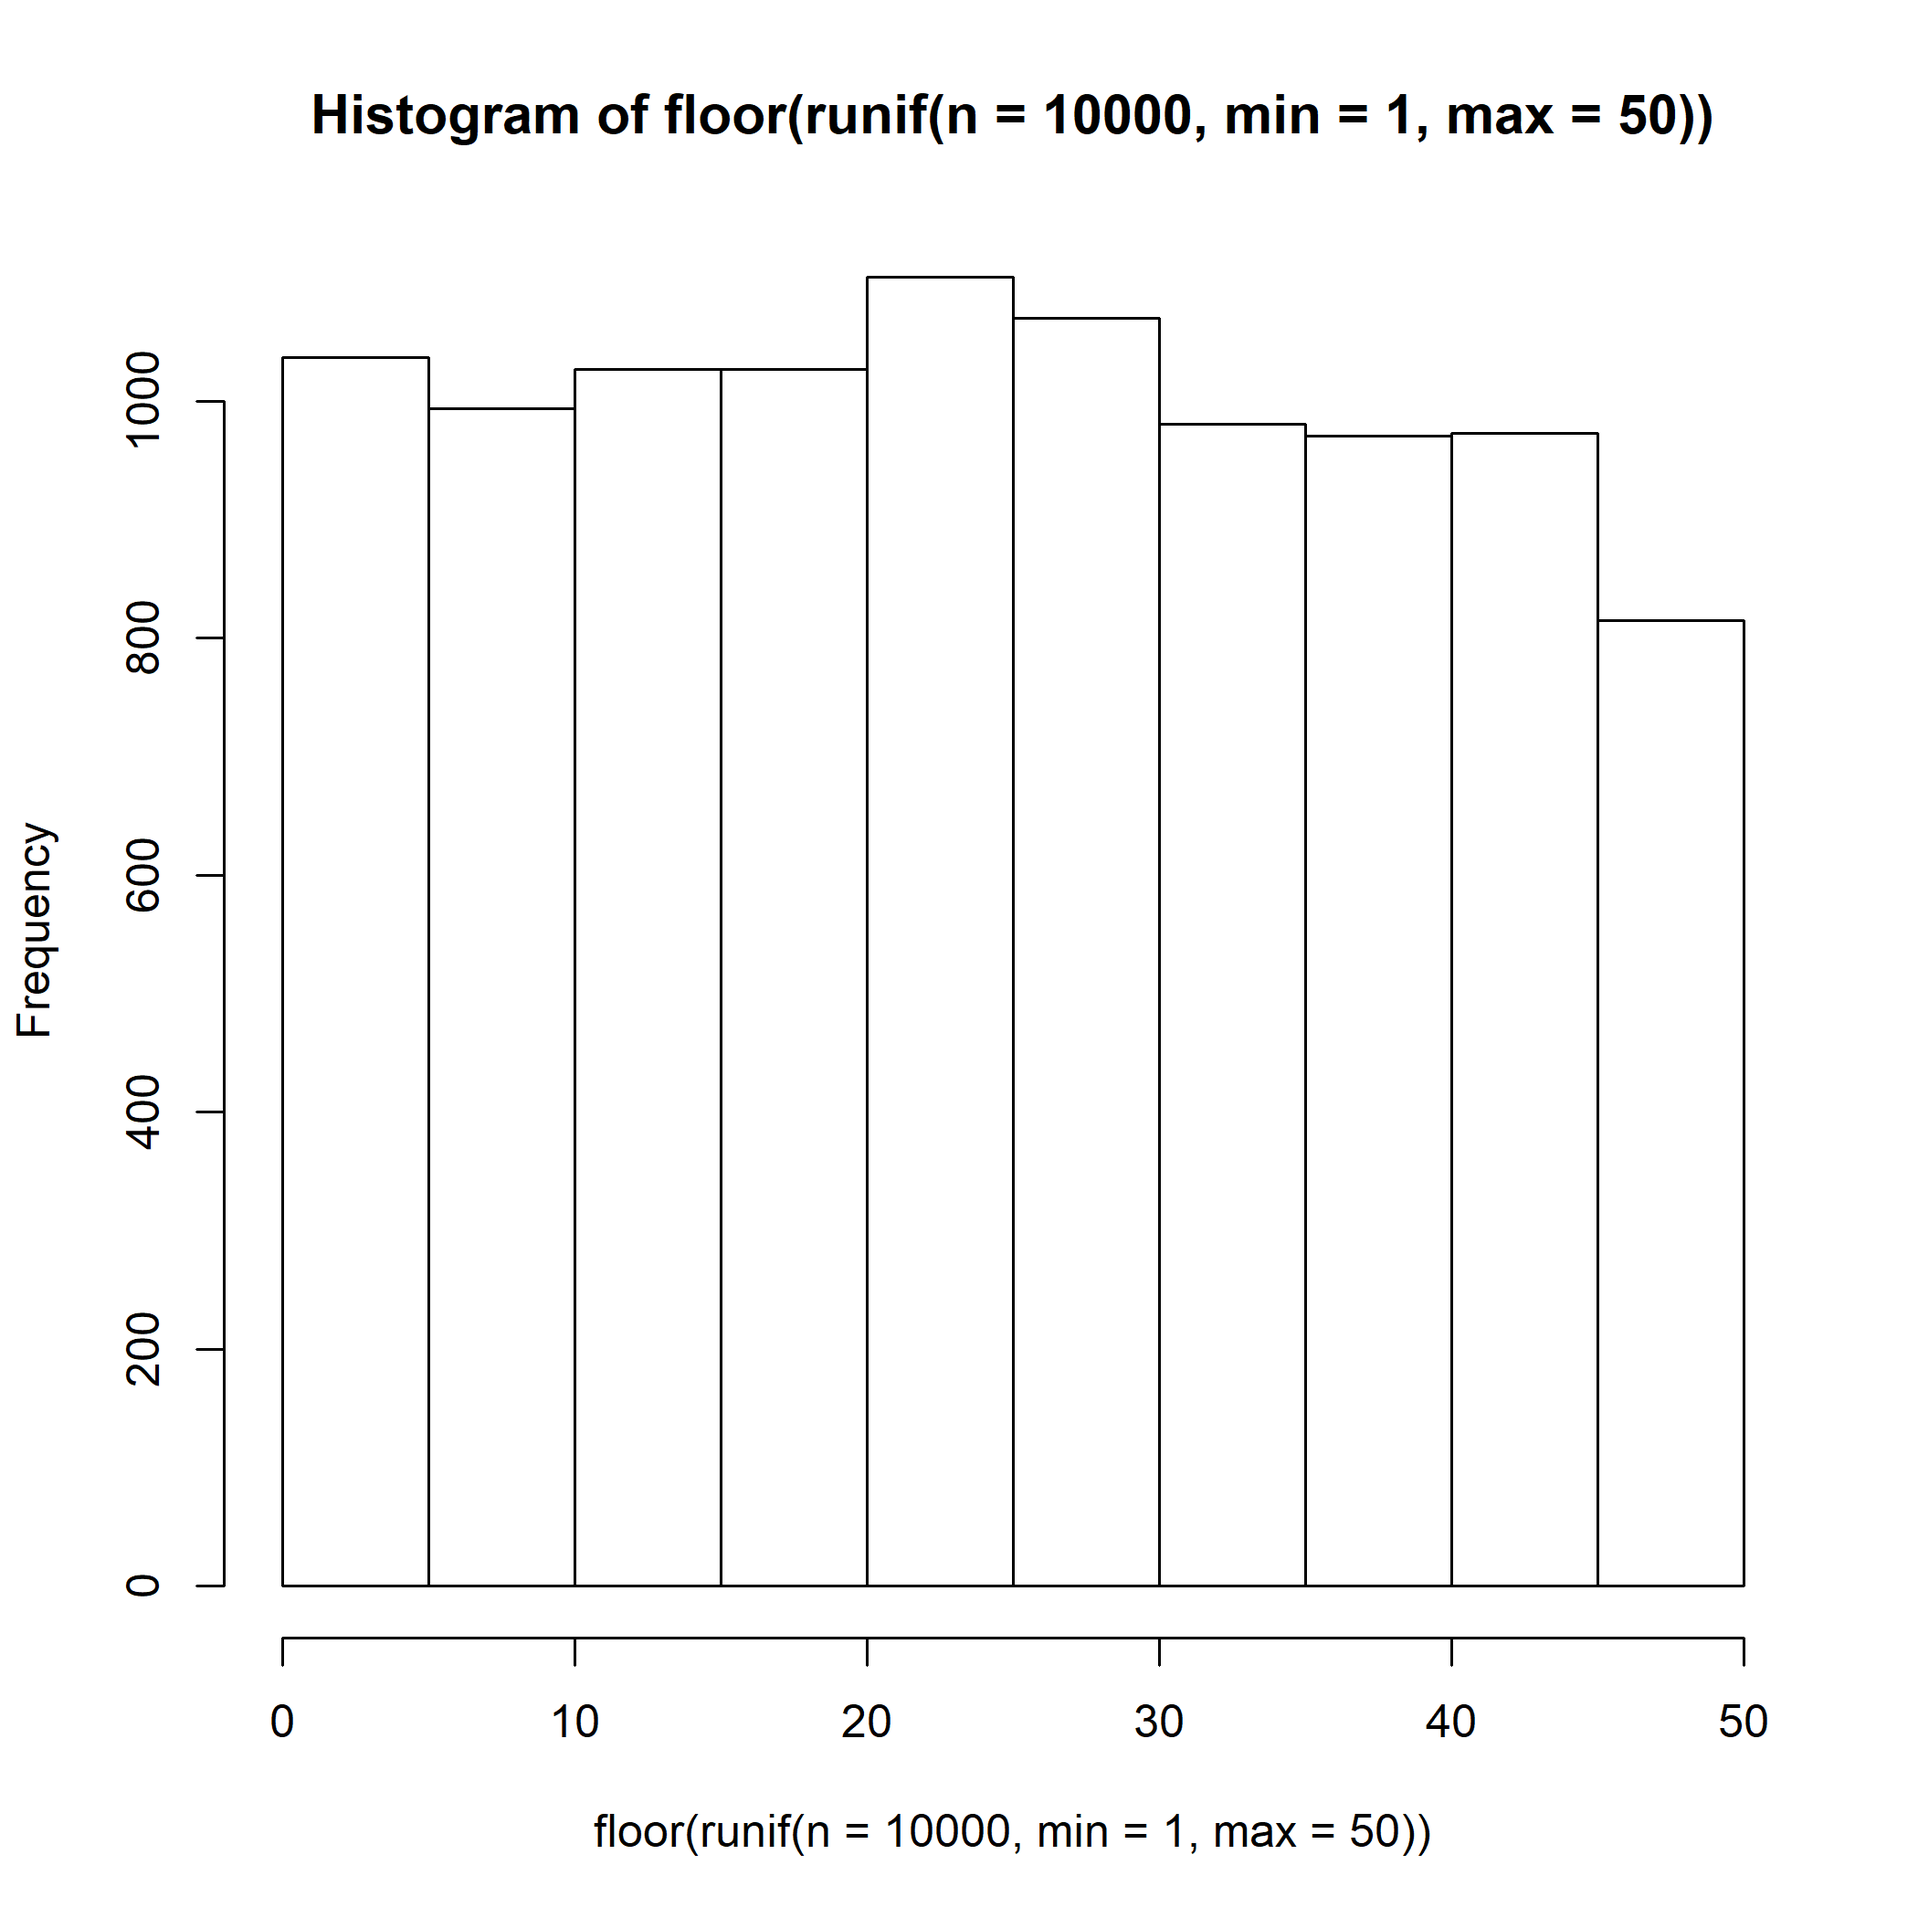
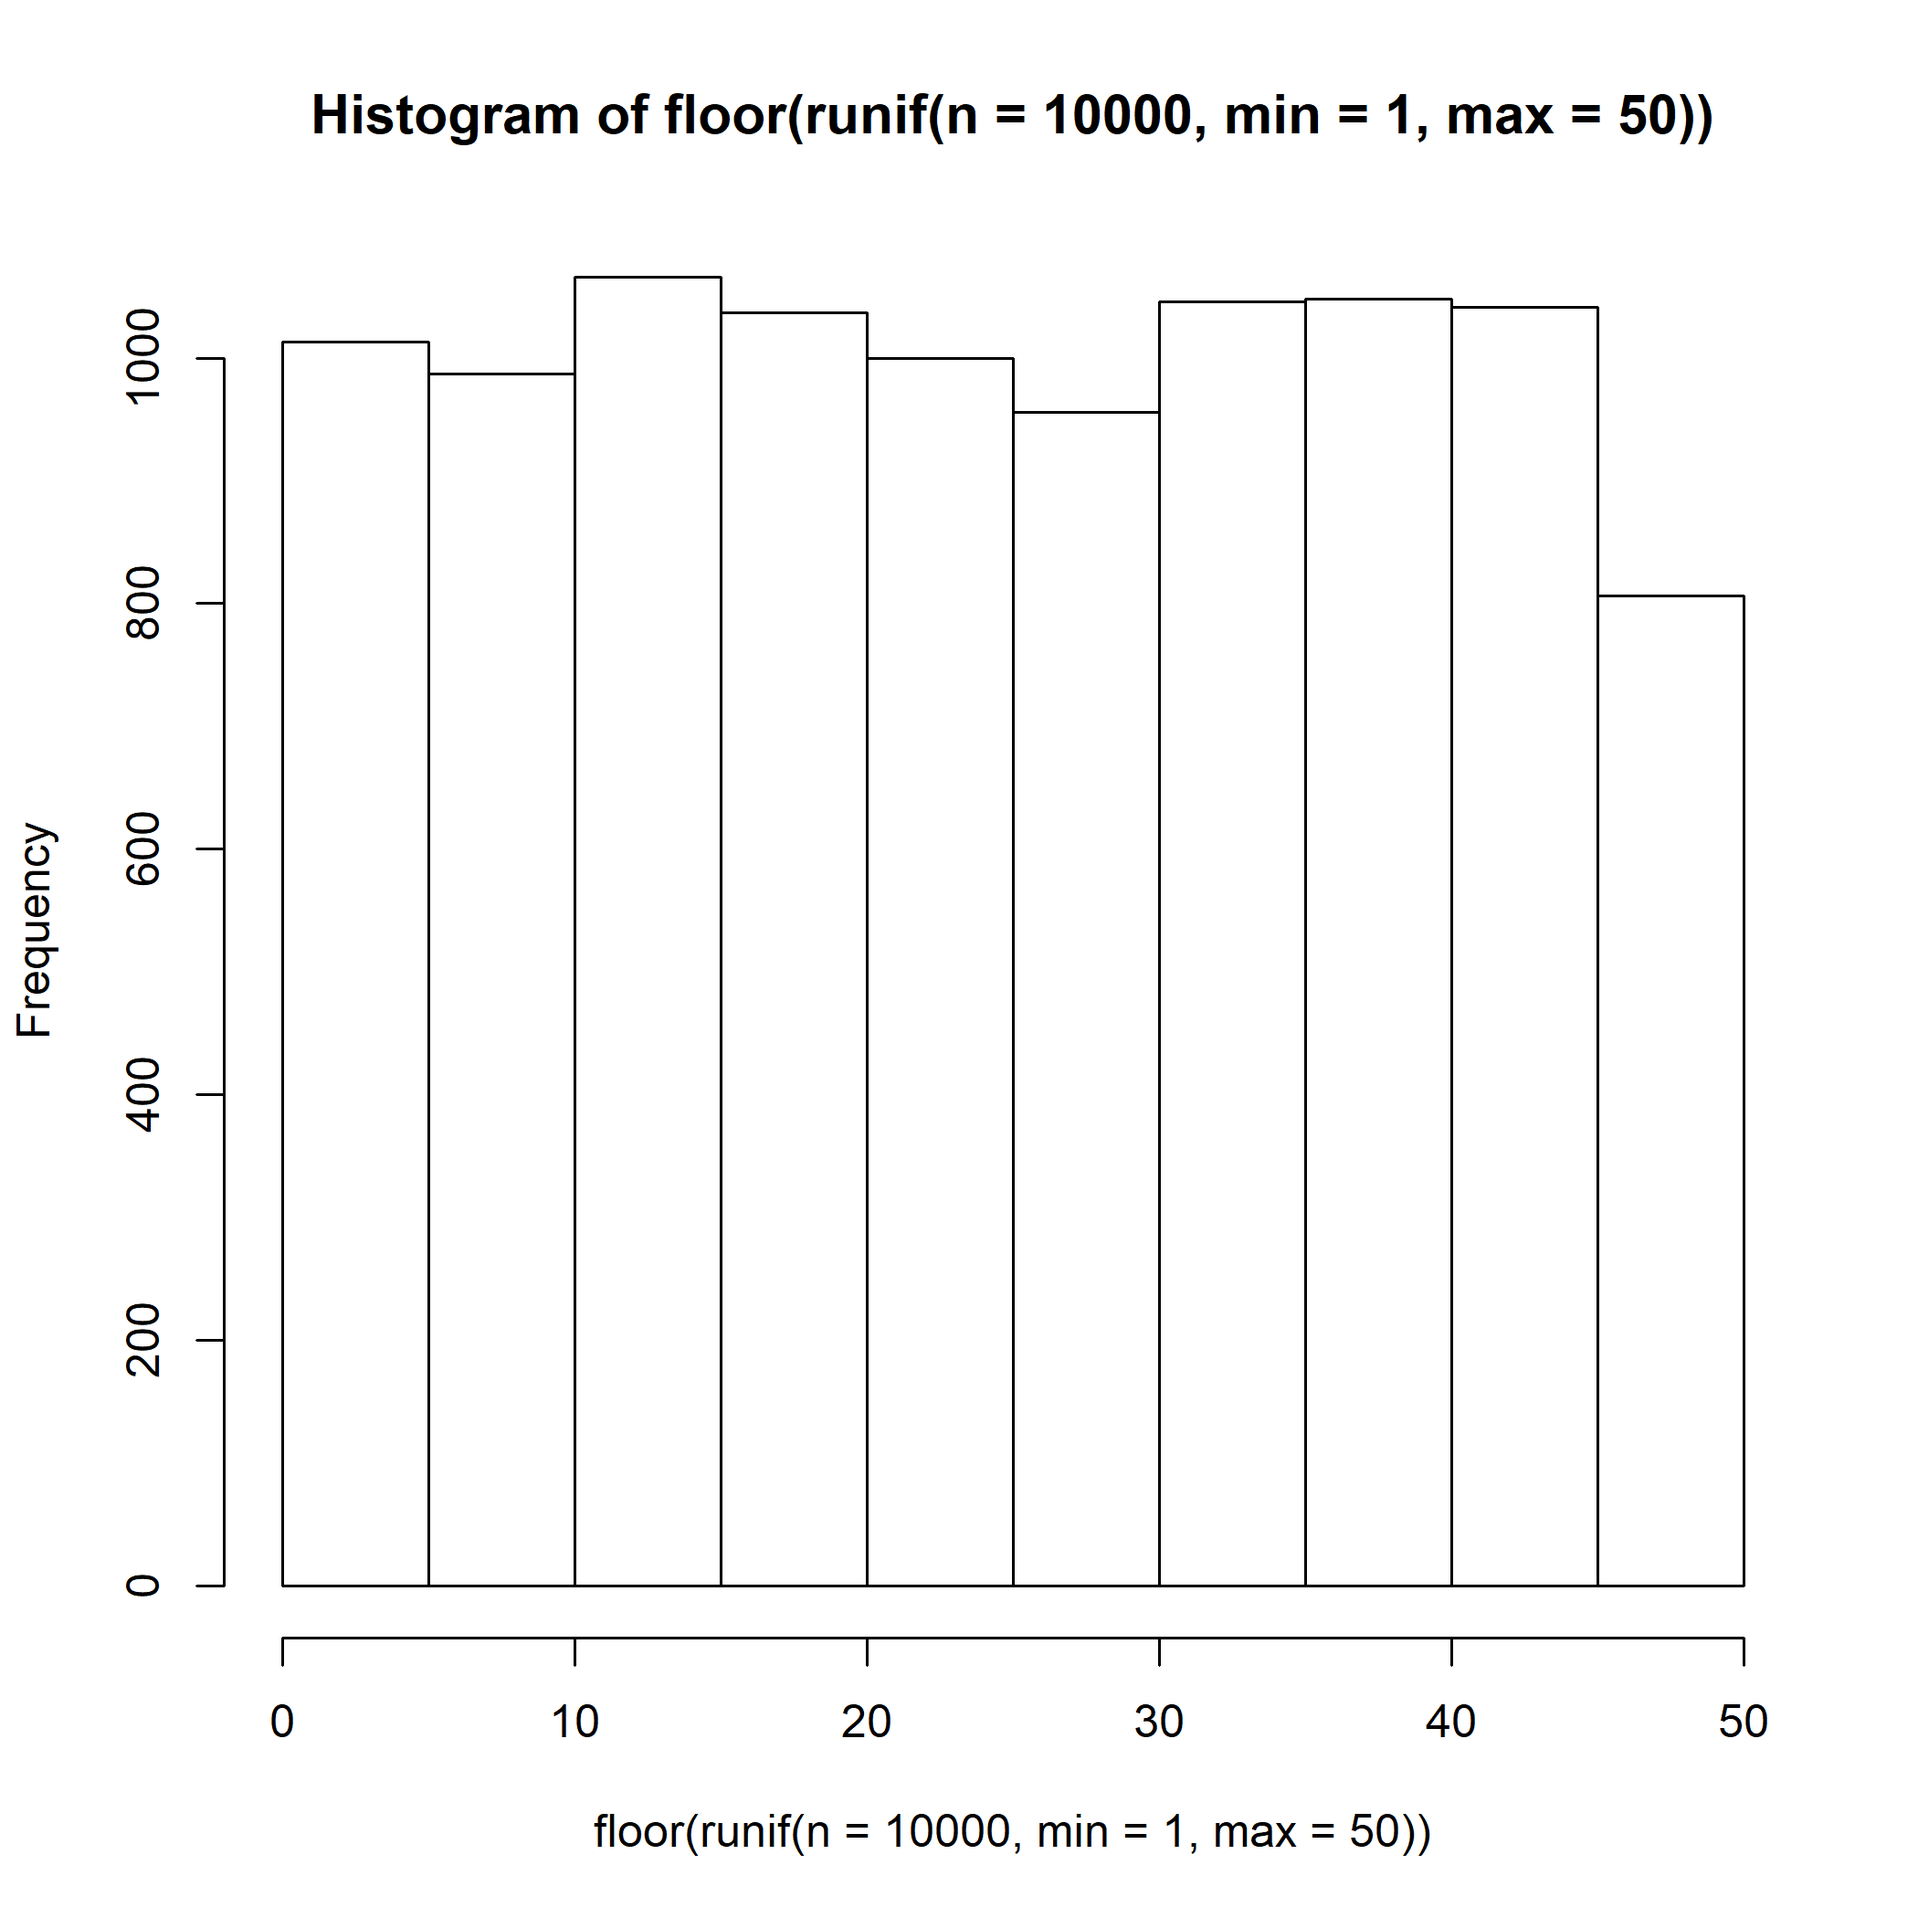
modif

diff --git a/Atelier_3/index.html b/Atelier_3/index.html
@@ -400,11 +400,11 @@ for(etape in 1:5) {
 ```
 
 ```
-## [1] 0.2198582
-## [1] 0.2528819
-## [1] 0.9097067
-## [1] 0.8324047
-## [1] 0.4369435
+## [1] 0.8518006
+## [1] 0.8114661
+## [1] 0.1992918
+## [1] 0.92805
+## [1] 0.1745451
 ```
 
 ---
@@ -592,6 +592,7 @@ while(combinaison != "pile-pile") {
 ```
 ## [1] "face-face"
 ## [1] "face-pile"
+## [1] "pile-face"
 ## [1] "pile-pile"
 ```
 
@@ -632,7 +633,7 @@ mean(res)
 ```
 
 ```
-## [1] 5.8841
+## [1] 6.0955
 ```
 
 ---
@@ -886,16 +887,16 @@ cbind(X,res)
 
 ```
 ##       X                    res         
-##  [1,] "0.875579030951485"  "plus grand"
-##  [2,] "0.183746167691424"  "plus petit"
-##  [3,] "0.120066972216591"  "plus petit"
-##  [4,] "0.889711264288053"  "plus grand"
-##  [5,] "0.0709996051155031" "plus petit"
-##  [6,] "0.555504905758426"  "plus grand"
-##  [7,] "0.942692558048293"  "plus grand"
-##  [8,] "0.166374112246558"  "plus petit"
-##  [9,] "0.169238364556804"  "plus petit"
-## [10,] "0.258603330235928"  "plus petit"
+##  [1,] "0.0653892264235765" "plus petit"
+##  [2,] "0.111779937520623"  "plus petit"
+##  [3,] "0.496967397397384"  "plus grand"
+##  [4,] "0.362131746951491"  "plus grand"
+##  [5,] "0.0413970698136836" "plus petit"
+##  [6,] "0.320090668508783"  "plus grand"
+##  [7,] "0.752403708873317"  "plus grand"
+##  [8,] "0.451468590414152"  "plus grand"
+##  [9,] "0.255443810252473"  "plus petit"
+## [10,] "0.937854348681867"  "plus grand"
 ```
 ]
 
@@ -950,16 +951,16 @@ cbind(X,res2)
 
 ```
 ##       X                    res2 
-##  [1,] "0.875579030951485"  "non"
-##  [2,] "0.183746167691424"  "non"
-##  [3,] "0.120066972216591"  "non"
-##  [4,] "0.889711264288053"  "non"
-##  [5,] "0.0709996051155031" "non"
-##  [6,] "0.555504905758426"  "oui"
-##  [7,] "0.942692558048293"  "non"
-##  [8,] "0.166374112246558"  "non"
-##  [9,] "0.169238364556804"  "non"
-## [10,] "0.258603330235928"  "oui"
+##  [1,] "0.0653892264235765" "non"
+##  [2,] "0.111779937520623"  "non"
+##  [3,] "0.496967397397384"  "oui"
+##  [4,] "0.362131746951491"  "oui"
+##  [5,] "0.0413970698136836" "non"
+##  [6,] "0.320090668508783"  "oui"
+##  [7,] "0.752403708873317"  "non"
+##  [8,] "0.451468590414152"  "oui"
+##  [9,] "0.255443810252473"  "oui"
+## [10,] "0.937854348681867"  "non"
 ```
 ]
 
@@ -986,16 +987,16 @@ cbind(X,res2)
 
 ```
 ##       X                    res2 
-##  [1,] "0.875579030951485"  "non"
-##  [2,] "0.183746167691424"  "non"
-##  [3,] "0.120066972216591"  "non"
-##  [4,] "0.889711264288053"  "non"
-##  [5,] "0.0709996051155031" "non"
-##  [6,] "0.555504905758426"  "oui"
-##  [7,] "0.942692558048293"  "non"
-##  [8,] "0.166374112246558"  "non"
-##  [9,] "0.169238364556804"  "non"
-## [10,] "0.258603330235928"  "oui"
+##  [1,] "0.0653892264235765" "non"
+##  [2,] "0.111779937520623"  "non"
+##  [3,] "0.496967397397384"  "oui"
+##  [4,] "0.362131746951491"  "oui"
+##  [5,] "0.0413970698136836" "non"
+##  [6,] "0.320090668508783"  "oui"
+##  [7,] "0.752403708873317"  "non"
+##  [8,] "0.451468590414152"  "oui"
+##  [9,] "0.255443810252473"  "oui"
+## [10,] "0.937854348681867"  "non"
 ```
 ]
 
@@ -1109,7 +1110,7 @@ tirage(3, cartes)
 ```
 
 ```
-## [1] "8 - pique"    "as - carreau" "10 - carreau"
+## [1] "roi - coeur"   "valet - pique" "5 - carreau"
 ```
 
 ---
@@ -1136,7 +1137,7 @@ res
 ```
 
 ```
-## [1] S H D N C S L
+## [1] V H I L R S Z
 ## Levels: A B C D F G H I J K L M N O P Q R S T U V W X Y Z
 ```
 
@@ -1210,7 +1211,7 @@ rbinom(n = 10, size = 1, prob = 0.5)
 ```
 
 ```
-##  [1] 0 1 1 1 0 1 1 1 1 0
+##  [1] 0 1 0 0 0 0 1 0 0 1
 ```
 ]
 
@@ -1234,11 +1235,11 @@ rmultinom(n = 3, size = 1, prob = rep(1/6, 6))
 ```
 ##      [,1] [,2] [,3]
 ## [1,]    0    0    0
-## [2,]    0    0    0
-## [3,]    0    0    0
-## [4,]    0    0    0
-## [5,]    0    0    1
-## [6,]    1    1    0
+## [2,]    0    0    1
+## [3,]    1    0    0
+## [4,]    0    1    0
+## [5,]    0    0    0
+## [6,]    0    0    0
 ```
 ]
 
@@ -1738,7 +1739,7 @@ system.time(tri(x))
 
 ```
 ##    user  system elapsed 
-##    0.25    0.00    0.27
+##    0.27    0.00    0.27
 ```
 
 ---
@@ -1798,7 +1799,7 @@ system.time(f1(x))
 
 ```
 ##    user  system elapsed 
-##    0.06    0.00    0.06
+##    0.05    0.00    0.05
 ```
 
 ```r
@@ -1807,7 +1808,7 @@ system.time(f2(x))
 
 ```
 ##    user  system elapsed 
-##       0       0       0
+##    0.02    0.00    0.01
 ```
 ]
 
@@ -1821,10 +1822,10 @@ Certaines fonctions sur R (voir Visser et al. 2015) sont optimisées. L'exemple 
 
 ```r
 f1 &lt;- function(x) {
-	res &lt;- numeric(ncol(x))
-	for(j in 1:ncol(x)) {
-		for(i in 1:nrow(x)){
-			res[j] &lt;- res[j] + x[i,j]
+	res &lt;- numeric(nrow(x))
+	for(i in 1:nrow(x)) {
+		for(j in 1:ncol(x)){
+			res[i] &lt;- res[i] + x[i,j]
 		}
 	}
 }
@@ -1847,9 +1848,9 @@ system.time(f1(X))
 ##    user  system elapsed 
 ##    0.01    0.00    0.02 
 ##    user  system elapsed 
-##    0.11    0.02    0.12 
+##    0.10    0.01    0.11 
 ##    user  system elapsed 
-##    0.68    0.00    0.68
+##    0.91    0.00    0.91
 ```
 ]
 
